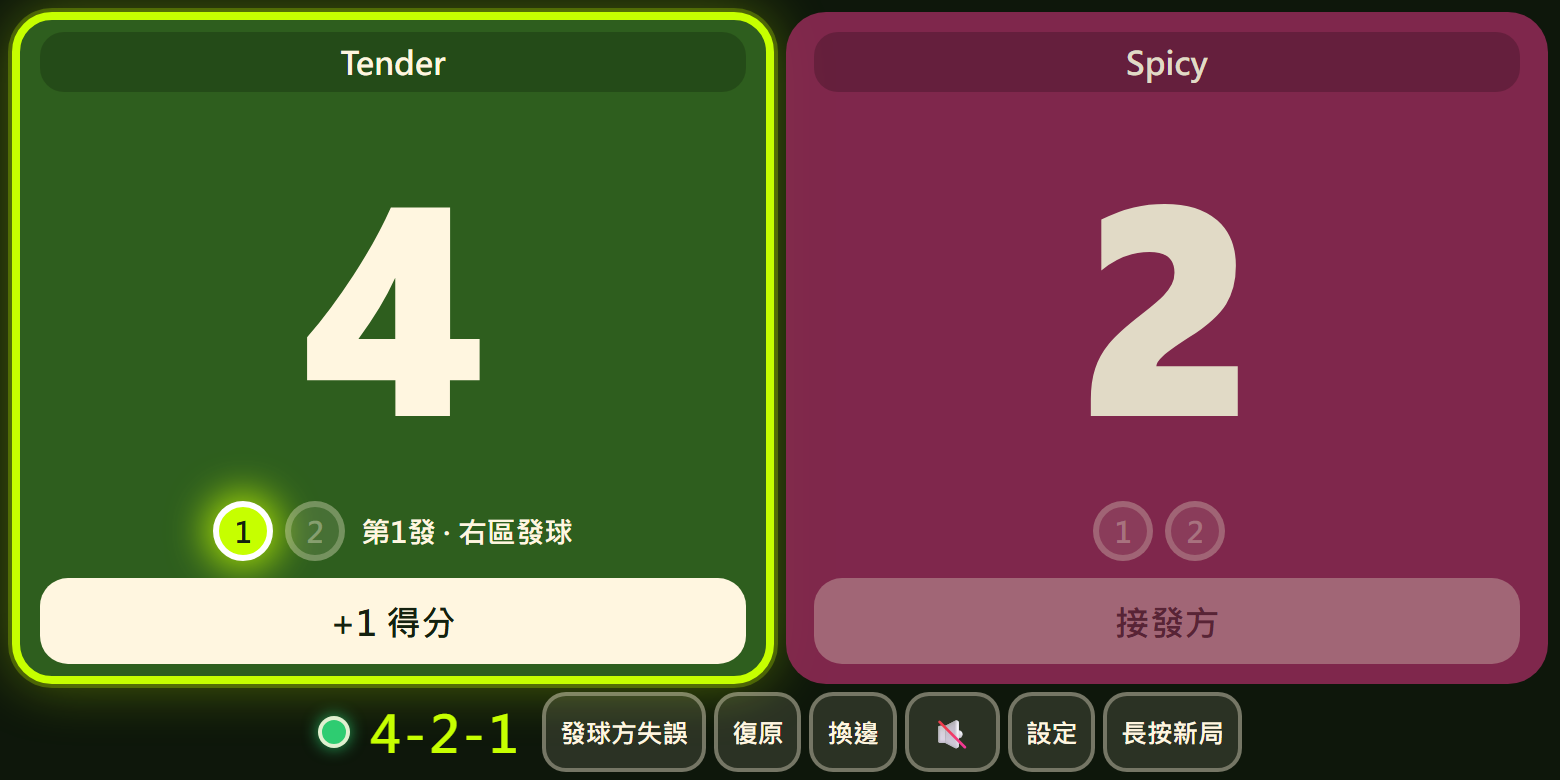
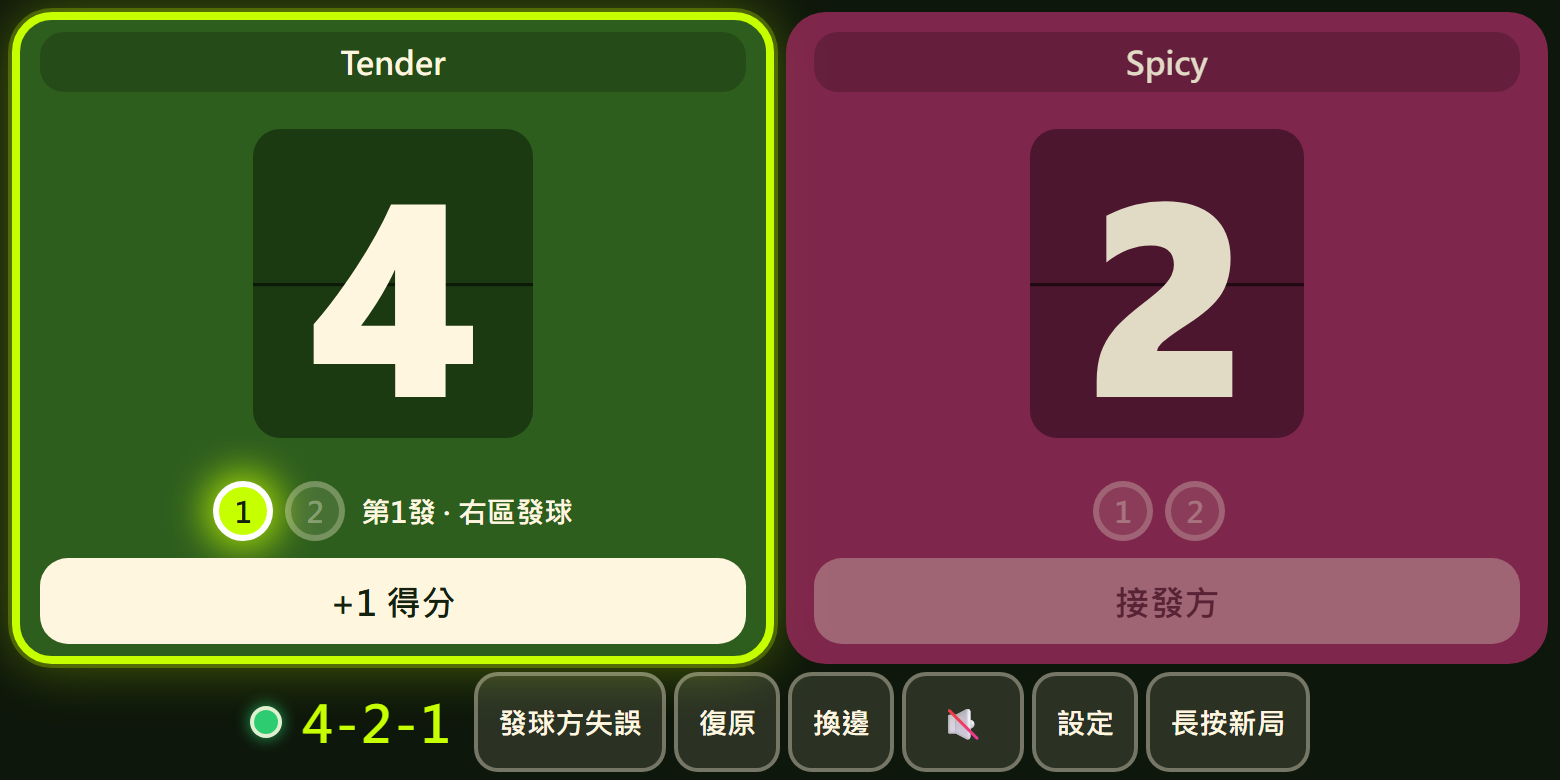
v1.5.0: split-flap score cards and larger action buttons; refresh guide screenshots

diff --git a/style.css b/style.css
@@ -92,15 +92,51 @@ button { font: inherit; color: inherit; cursor: pointer; }
   container-type: size;
 }
 .score {
+  --card: #1c3a12;
+  position: relative;
   font-weight: 900;
   line-height: 1;
   font-family: "Segoe UI Black", "Arial Black", "Helvetica Neue", system-ui, sans-serif;
   font-variant-numeric: tabular-nums;
   font-size: clamp(4rem, 26vmin, 16rem);
+  padding: .06em .2em;
+  perspective: 6em;
 }
 @supports (container-type: size) {
-  .score { font-size: min(78cqh, 60cqw); }
+  .score { font-size: min(76cqh, 50cqw); }
 }
+.team[data-team="1"] .score { --card: #561834; }
+
+/* flip-card: sizer keeps the layout, four half-cards do the drawing */
+.score .sz { color: transparent; }
+.score .h {
+  position: absolute;
+  left: 0; right: 0;
+  height: 50%;
+  overflow: hidden;
+  background: var(--card);
+  font-style: normal;
+  backface-visibility: hidden;
+  -webkit-backface-visibility: hidden;
+}
+.score .h b {
+  position: absolute;
+  left: 0; right: 0;
+  height: 200%;
+  display: grid;
+  place-items: center;
+  font-weight: inherit;
+  padding: .06em 0;
+}
+.score .t, .score .ft { top: 0; border-radius: .1em .1em 0 0; transform-origin: 50% 100%; }
+.score .t b, .score .ft b { top: 0; }
+.score .bo, .score .fb { bottom: 0; border-radius: 0 0 .1em .1em; transform-origin: 50% 0; box-shadow: inset 0 .012em 0 rgba(0, 0, 0, .55); }
+.score .bo b, .score .fb b { bottom: 0; }
+.score .ft, .score .fb { visibility: hidden; }
+.score.flipping .ft { visibility: visible; animation: flip-top .26s ease-in forwards; }
+.score.flipping .fb { visibility: visible; transform: rotateX(90deg); animation: flip-bottom .26s .26s ease-out forwards; }
+@keyframes flip-top { to { transform: rotateX(-90deg); } }
+@keyframes flip-bottom { to { transform: rotateX(0); } }
 
 /* ---------- serve lights ---------- */
 .serve {
@@ -203,9 +239,20 @@ button { font: inherit; color: inherit; cursor: pointer; }
   font-weight: 800;
   font-size: clamp(.9rem, 2.2vmin, 1.2rem);
 }
+#actions { gap: 12px; }
+#actions button {
+  min-height: clamp(60px, max(10vmin, 5vw), 96px);
+  padding: 0 1.3em;
+  border-radius: 16px;
+  font-size: clamp(1.1rem, max(3.2vmin, 1.6vw), 1.9rem);
+}
 #actions button:active { background: rgba(255, 246, 224, .25); }
 #fault { background: rgba(240, 98, 146, .25); border-color: var(--pink); }
-#voice { font-size: 1.3rem; padding: 0 .8em; }
+#voice { font-size: clamp(1.5rem, 4vmin, 2.2rem) !important; padding: 0 1em !important; }
+@media (orientation: portrait) and (max-width: 640px) {
+  #actions { display: grid; grid-template-columns: repeat(3, 1fr); width: 100%; gap: 8px; }
+  #actions button { padding: 0 .3em; font-size: 1.1rem; }
+}
 
 #newgame { position: relative; overflow: hidden; touch-action: none; }
 #newgame::after {
@@ -320,7 +367,7 @@ dialog input[type="range"] { flex: 1; max-width: 220px; accent-color: var(--lamp
   #bar { padding: 4px; gap: 4px 10px; flex-wrap: nowrap; }
   #callout-box span { display: none; }
   #actions { flex-wrap: nowrap; gap: 4px; }
-  #actions button { min-height: 40px; padding: 0 .55em; font-size: .8rem; white-space: nowrap; }
-  #voice { font-size: 1.1rem !important; }
+  #actions button { min-height: 50px; padding: 0 .7em; font-size: .9rem; white-space: nowrap; border-radius: 12px; }
+  #voice { font-size: 1.2rem !important; padding: 0 .8em !important; }
   footer { display: none; }
 }

diff --git a/app.js b/app.js
@@ -4,7 +4,7 @@
 
   var E = PickleEngine;
   var KEY = 'tps.v1';
-  var VERSION = '1.4.1'; // keep in sync with CACHE in sw.js
+  var VERSION = '1.5.0'; // keep in sync with CACHE in sw.js
 
   var I18N = {
     'zh-TW': {
@@ -109,6 +109,53 @@
       point: el.querySelector('.point')
     };
   });
+  slots.forEach(buildFlip);
+
+  /* ---------- flip-card score ---------- */
+  var FLIP_MS = 520;
+  var reduceMotion = window.matchMedia && matchMedia('(prefers-reduced-motion: reduce)').matches;
+
+  function buildFlip(sl) {
+    var el = sl.score;
+    el.textContent = '';
+    var sz = document.createElement('span');
+    sz.className = 'sz';
+    el.appendChild(sz);
+    sl.faces = {};
+    ['t', 'bo', 'ft', 'fb'].forEach(function (k) {
+      var h = document.createElement('i');
+      h.className = 'h ' + k;
+      h.setAttribute('aria-hidden', 'true');
+      h.appendChild(document.createElement('b'));
+      el.appendChild(h);
+      sl.faces[k] = h.firstChild;
+    });
+    sl.sz = sz;
+    sl.shown = null;
+  }
+  function faces(sl, top, bottom, flapTop, flapBottom) {
+    sl.faces.t.textContent = top;
+    sl.faces.bo.textContent = bottom;
+    sl.faces.ft.textContent = flapTop;
+    sl.faces.fb.textContent = flapBottom;
+  }
+  function setScore(sl, val) {
+    val = String(val);
+    if (sl.shown === val) return;
+    var old = sl.shown;
+    sl.shown = val;
+    sl.sz.textContent = val;
+    clearTimeout(sl.flipTimer);
+    sl.score.classList.remove('flipping');
+    if (old === null || reduceMotion) { faces(sl, val, val, val, val); return; }
+    faces(sl, val, old, old, val);
+    void sl.score.offsetWidth; // restart the CSS animation
+    sl.score.classList.add('flipping');
+    sl.flipTimer = setTimeout(function () {
+      faces(sl, val, val, val, val);
+      sl.score.classList.remove('flipping');
+    }, FLIP_MS);
+  }
 
   /* ---------- render ---------- */
   function render() {
@@ -128,7 +175,7 @@
       sl.name.placeholder = slot === 0 ? t('left') : t('right');
       sl.name.setAttribute('aria-label', t('nameLabel'));
 
-      sl.score.textContent = g.scores[team];
+      setScore(sl, g.scores[team]);
 
       sl.lamps.forEach(function (lamp) {
         lamp.classList.toggle('on', serving && Number(lamp.dataset.n) === g.serverNum);

diff --git a/guide/index.html b/guide/index.html
@@ -158,7 +158,7 @@ footer{text-align:center;color:var(--mute);font-size:14px;margin-top:48px}
   </figure>
   <div>
     <p><span class="num">1</span><strong>隊名</strong>：點一下可輸入，留空則顯示「左邊隊伍／右邊隊伍」。</p>
-    <p><span class="num">2</span><strong>比分</strong>：該隊目前得分。</p>
+    <p><span class="num">2</span><strong>比分</strong>：像車站翻牌顯示板一樣，得分時數字會往下翻頁。</p>
     <p><span class="num">3</span><strong>發球燈號</strong>：亮起的是目前發球員（第 1 發或第 2 發）。</p>
     <p><span class="num">4</span><strong>發球區</strong>：<code>左</code>／<code>右</code> 亮起處就是應站的發球區（隊分偶數右區、奇數左區）。</p>
     <p><span class="num">5</span><strong>+1 得分</strong>：發球方贏得這一球時按。外框螢光綠的就是發球方。</p>

diff --git a/sw.js b/sw.js
@@ -3,7 +3,7 @@
  * when offline (or the network is slower than TIMEOUT) the cached copy is used.
  * Bump CACHE (and VERSION in app.js) when any file changes.
  */
-var CACHE = 'tender-pickle-v1.4.1';
+var CACHE = 'tender-pickle-v1.5.0';
 var TIMEOUT = 4000;
 var FILES = [
   './', 'index.html', 'style.css', 'engine.js', 'app.js', 'manifest.json',
